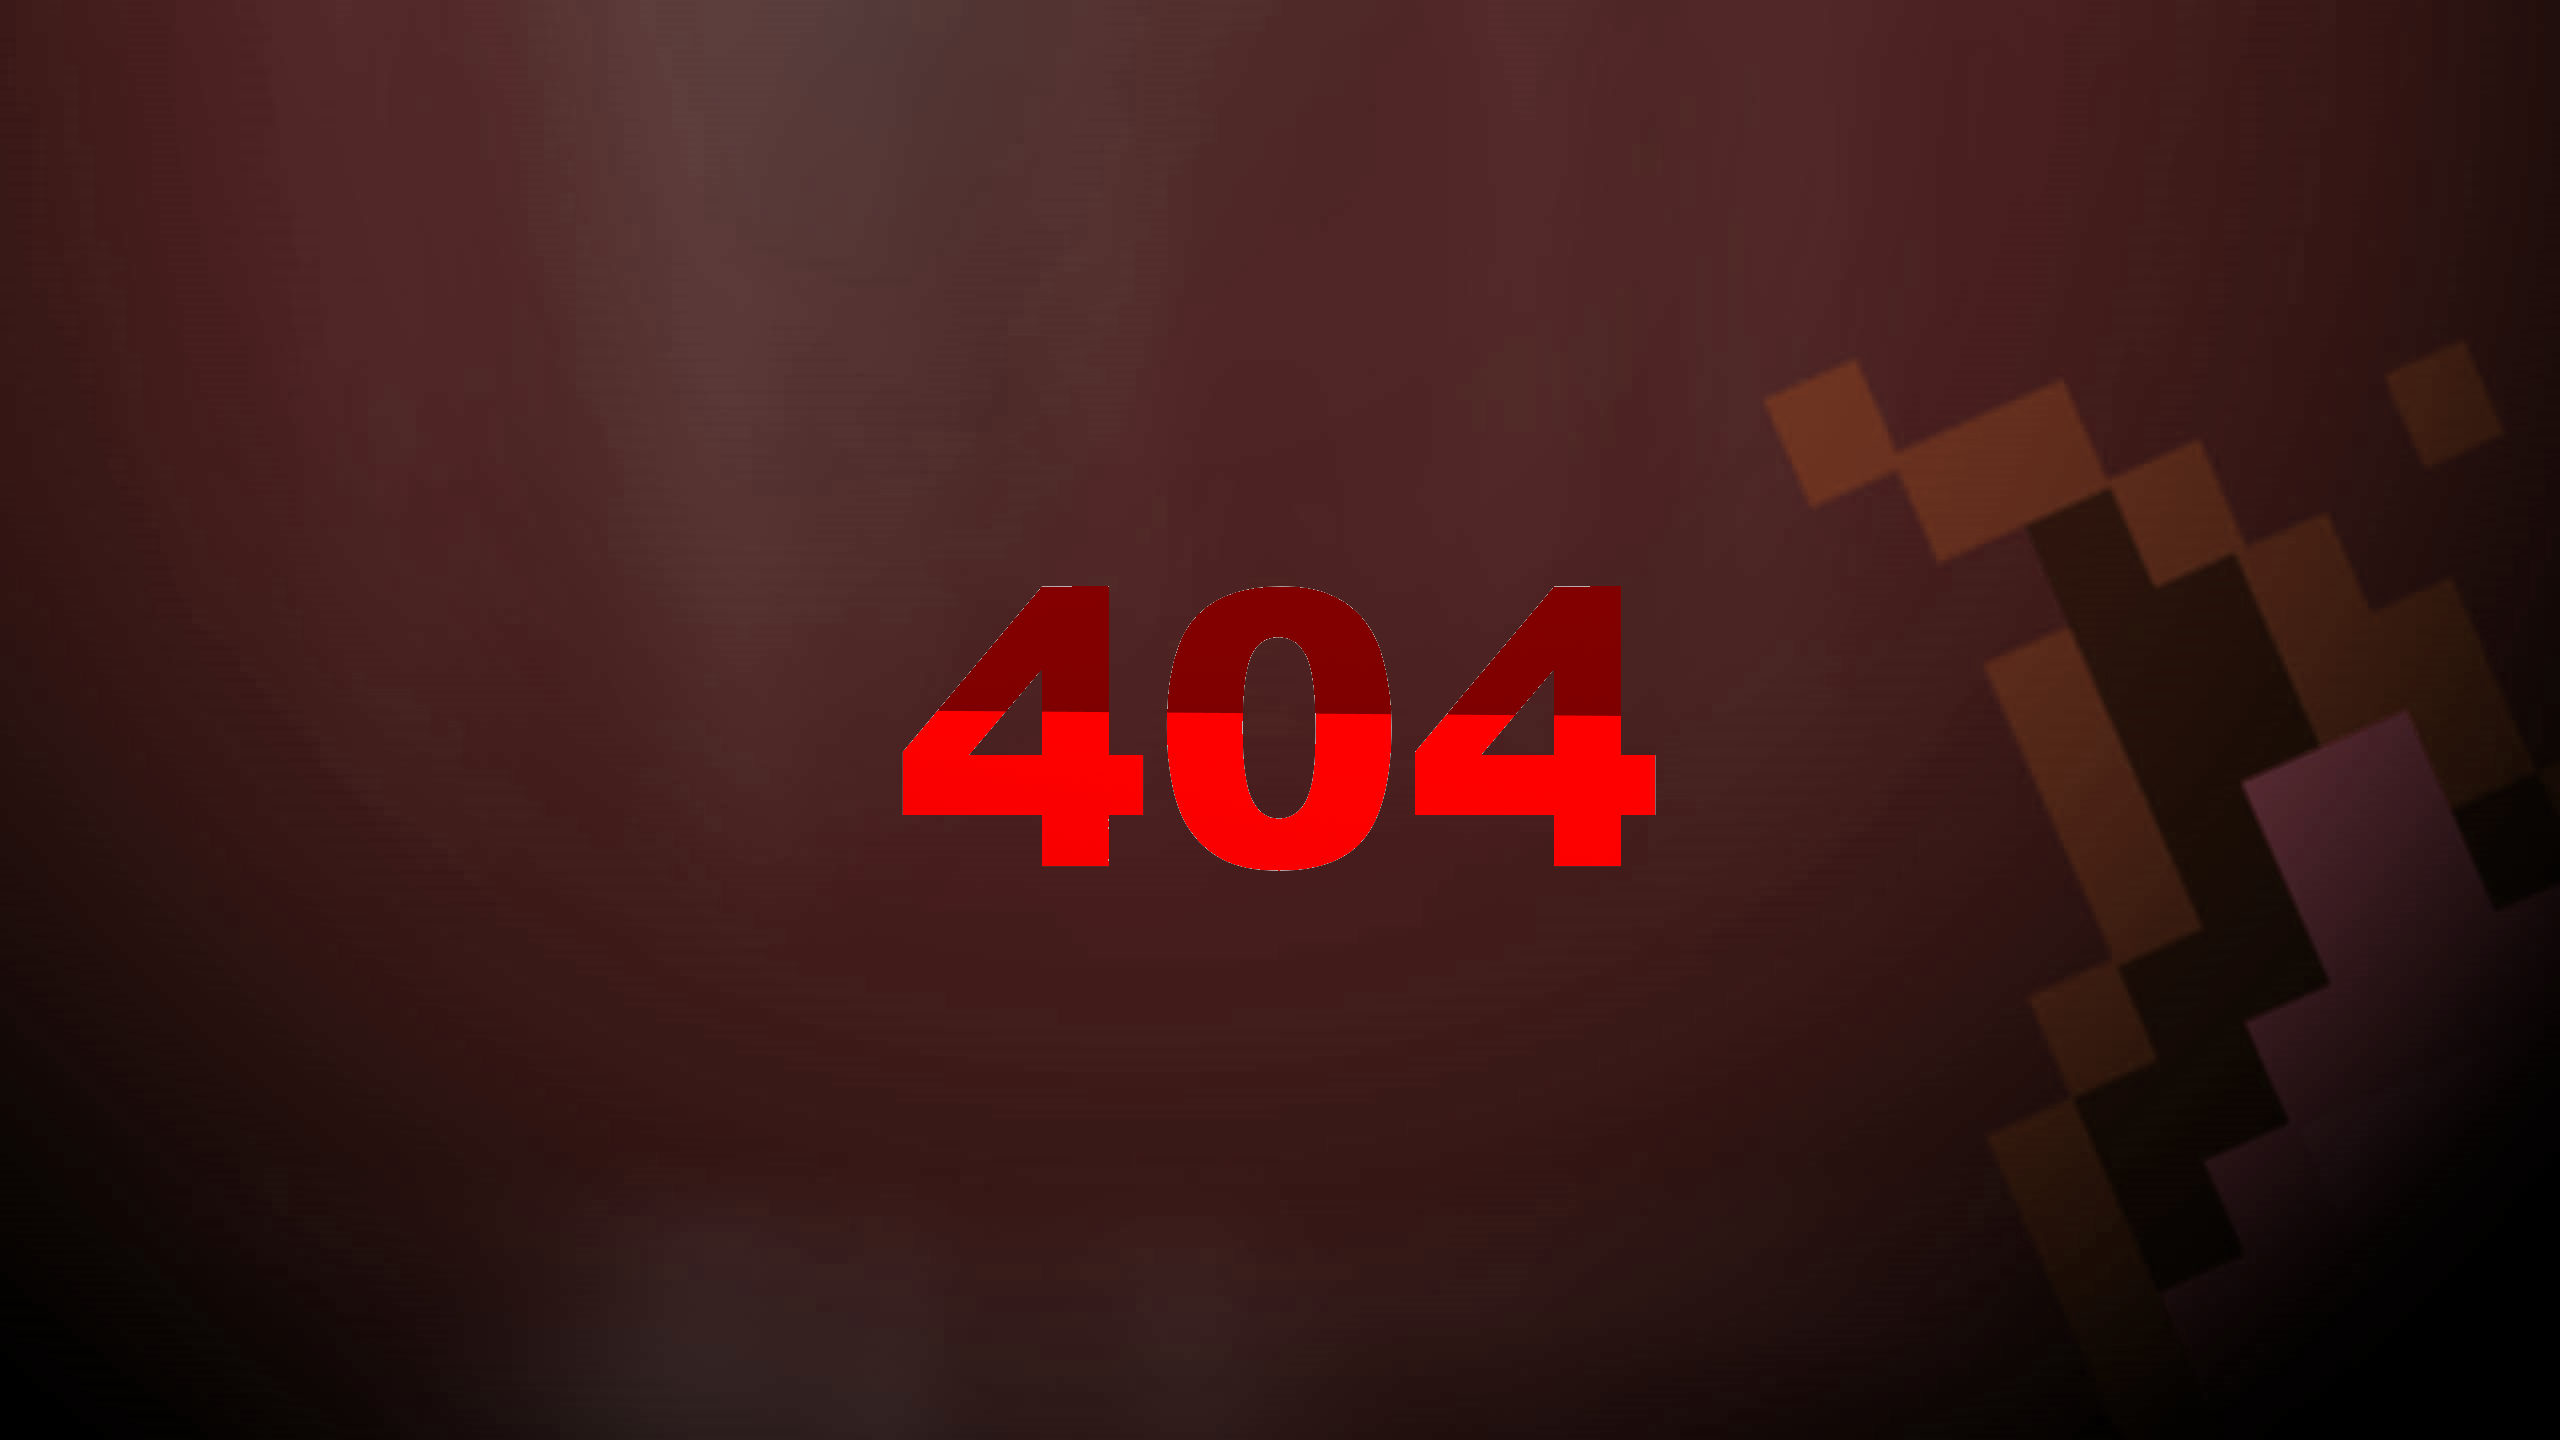
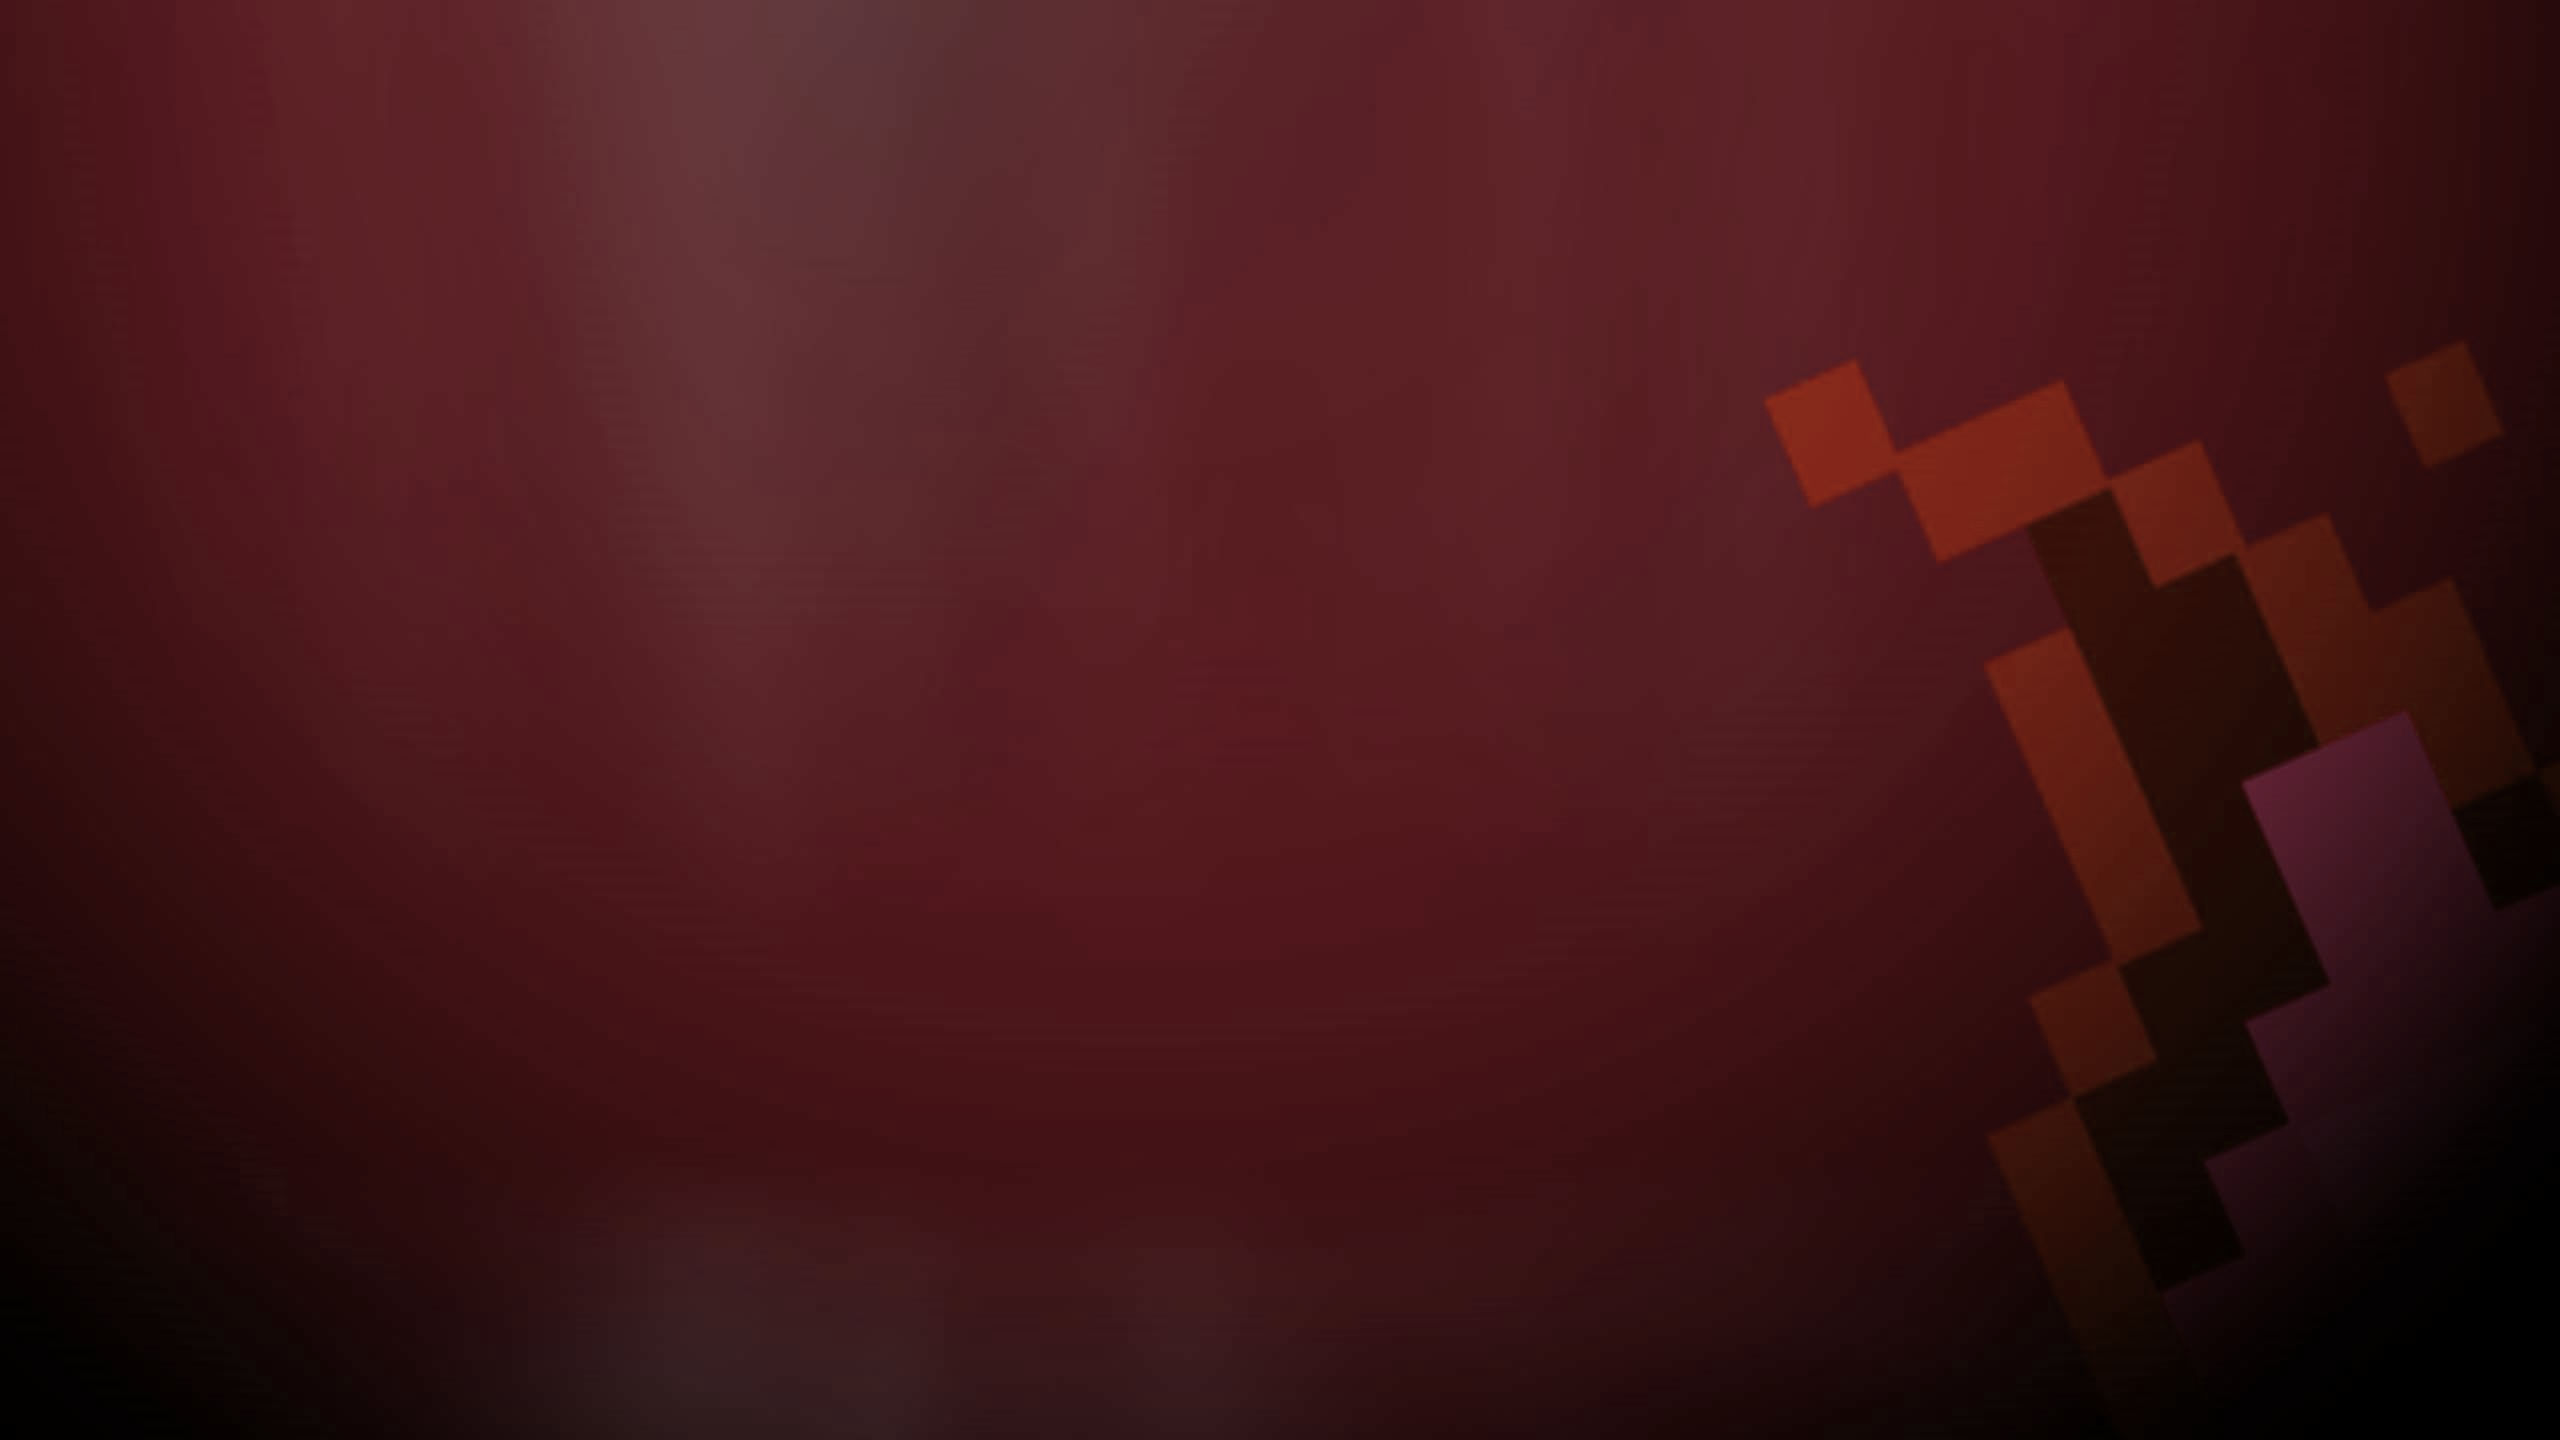
better 404 page

Changed region(s): [[0.3438, 0.4062, 0.6562, 0.625], [0.6875, 0.25, 0.7188, 0.3125]]

diff --git a/404.html b/404.html
@@ -23,7 +23,7 @@
     <a href="/news/" class="nav-item"><i class="fas fa-rss-square"></i>Actus</a>
     <a href="/credits" class="nav-item"><i class="fas fa-users"></i>A propos</a>
   </nav>
-
+  <h1 class="titre">404 Not Found</h1>
   <footer>
 
     <div id="container">
